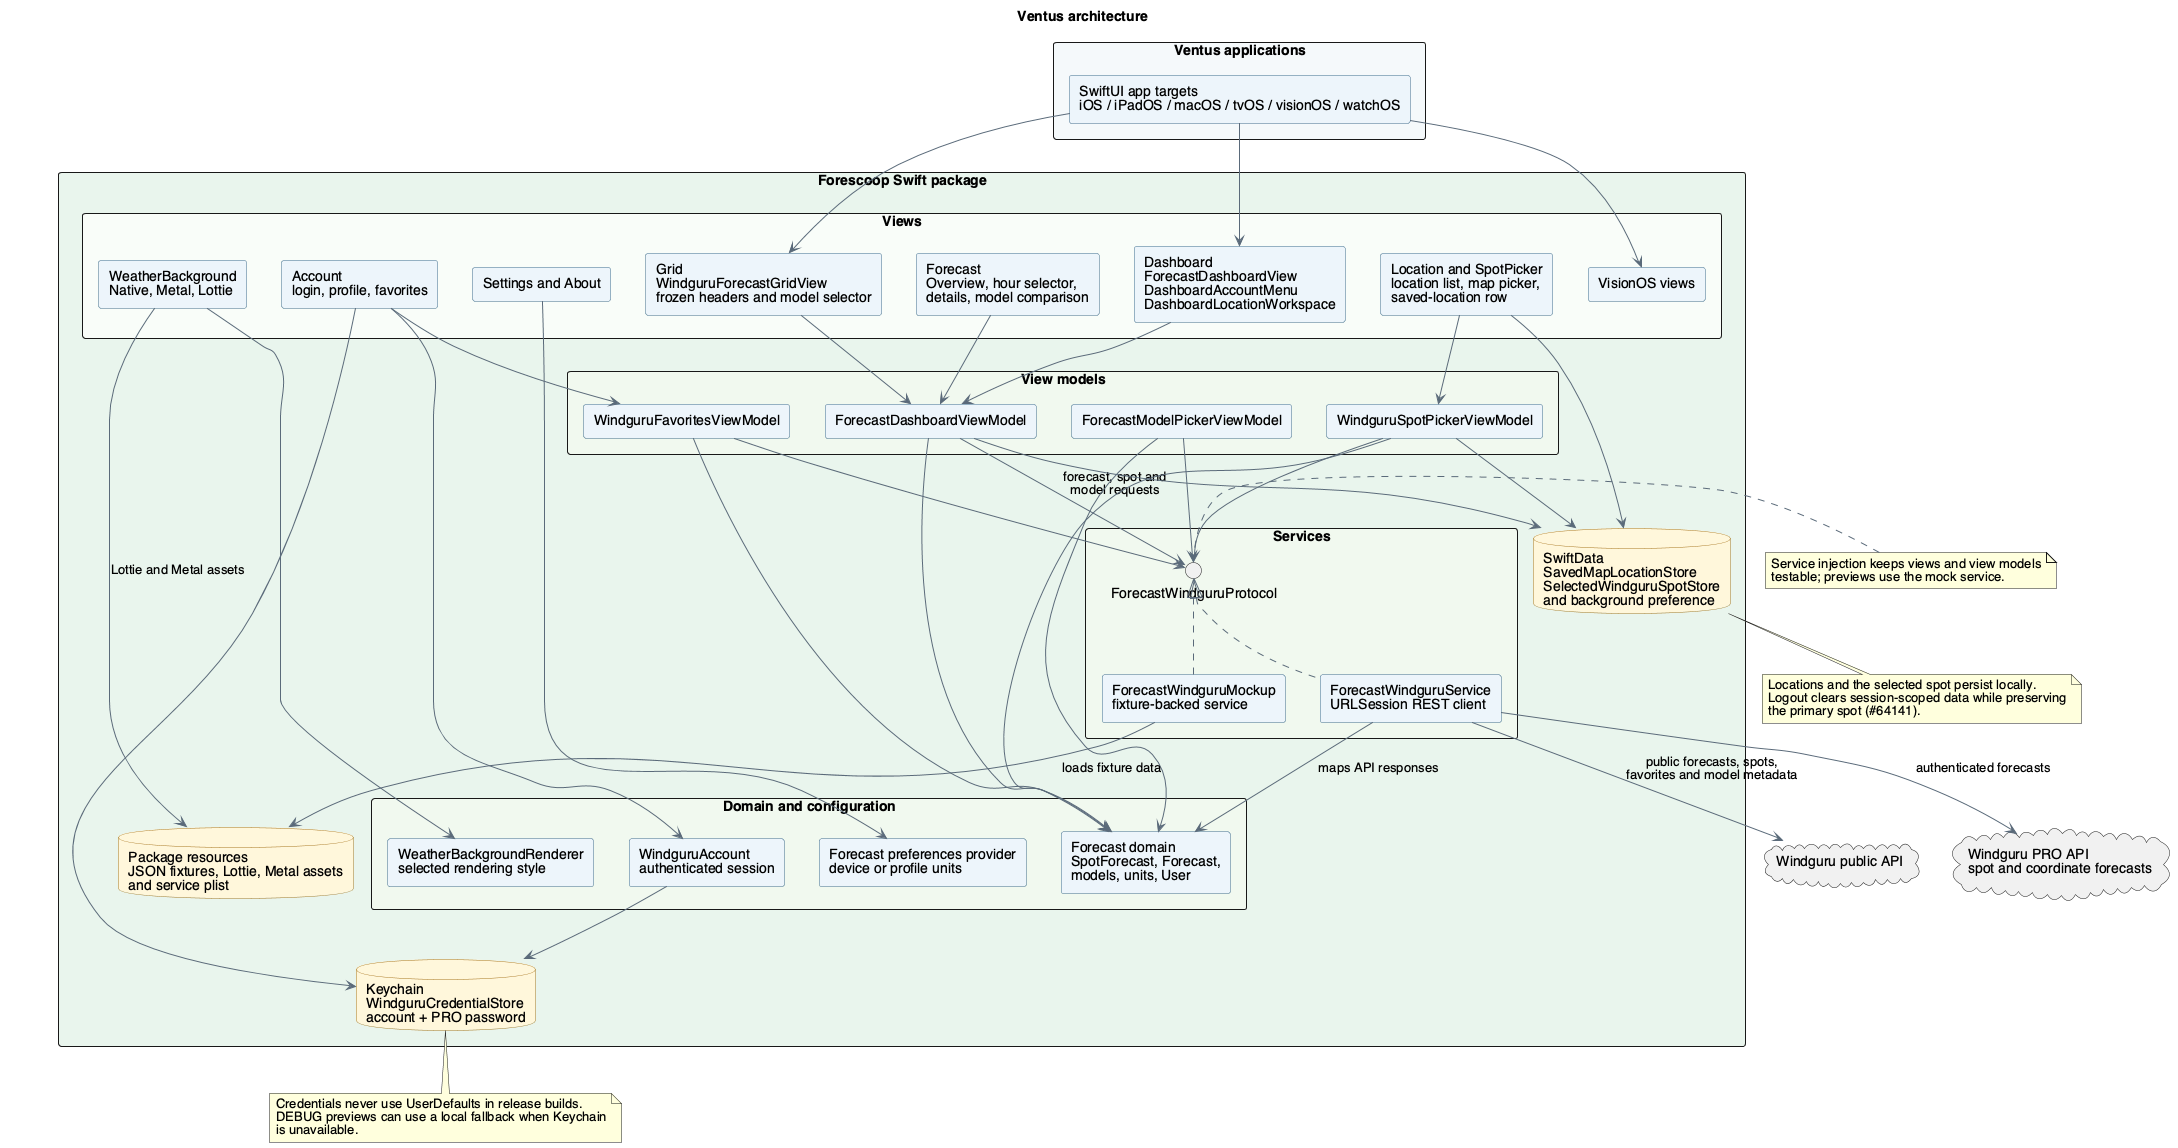
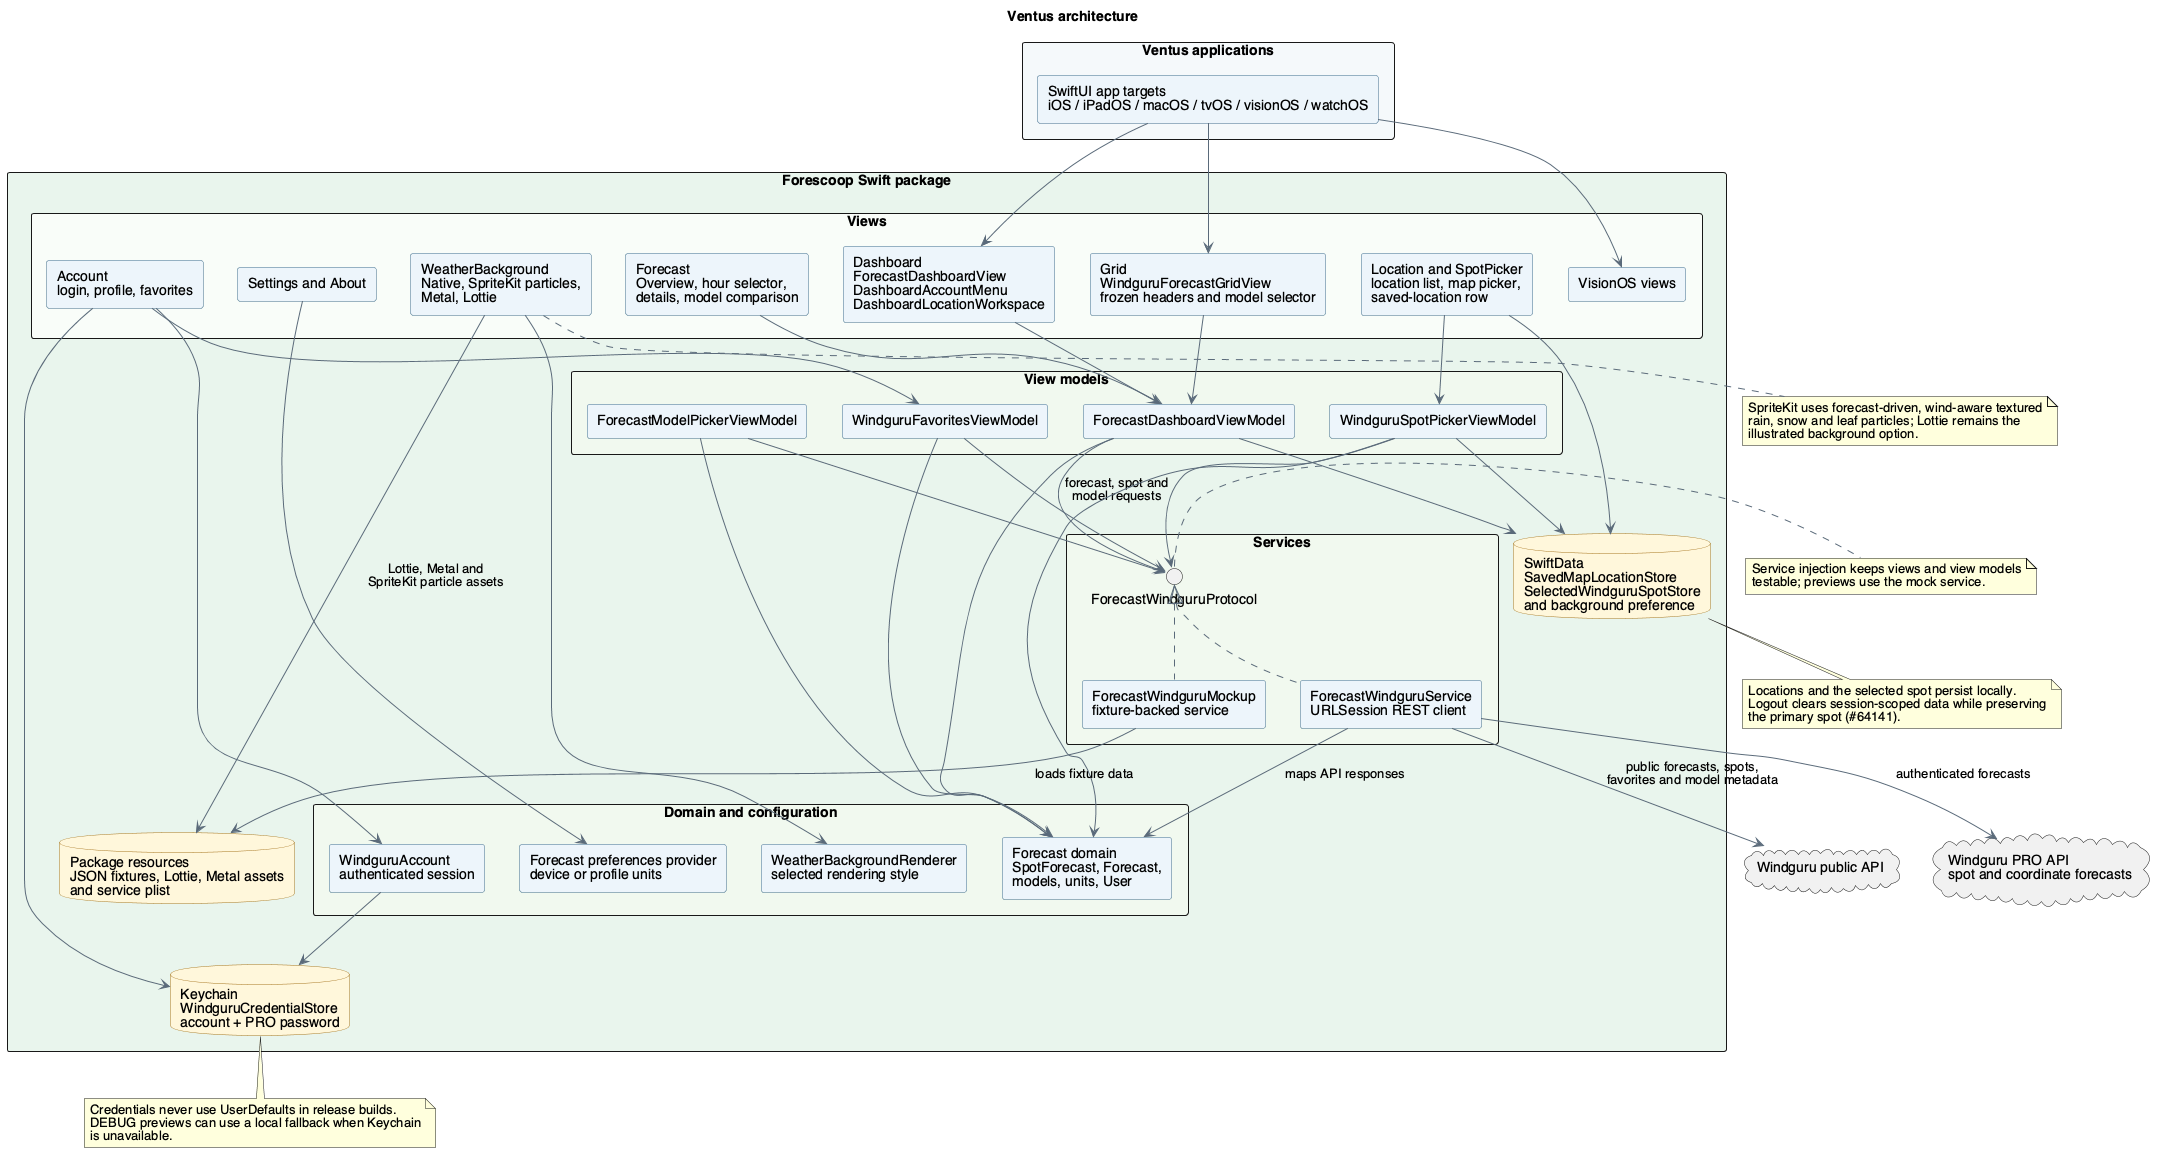
Adding SpriteKit weather bg

diff --git a/Sources/Forescoop/Classes/View/WeatherBackground/SpriteKitWeatherBackground.swift b/Sources/Forescoop/Classes/View/WeatherBackground/SpriteKitWeatherBackground.swift
@@ -1,0 +1,278 @@
+//
+//  SpriteKitWeatherBackground.swift
+//  Forescoop package
+//
+//  Created by Javier Fuchs on 08/01/26.
+//  Copyright © 2026 Mobile Patagonia. All rights reserved.
+//
+
+import SwiftUI
+
+#if canImport(SpriteKit) && !os(watchOS)
+import SpriteKit
+#if os(macOS)
+import AppKit
+#else
+import UIKit
+#endif
+#endif
+
+/// A forecast-reactive background made from SpriteKit particle sprites.
+///
+/// Unlike the illustrated Lottie treatments, rain, snow and leaves here react
+/// to the forecast precipitation, wind strength and downwind direction.
+public struct SpriteKitWeatherBackground: WeatherBackground {
+    private let condition: SpriteWeatherCondition
+
+    public init(forecast: SpotForecast, hour: String? = nil) {
+        let selectedHour = hour ?? forecast.currentForecastHour
+        let weather = forecast.forecast
+        let symbols = forecast.weatherSymbolNames(hour: selectedHour)
+        let precipitation = weather?.precipitation(hh: selectedHour)
+            ?? weather?.precipitation1(hh: selectedHour)
+            ?? 0
+        let windDirection = weather?.windDirection(hh: selectedHour) ?? 270
+        let downwindRadians = (windDirection + 180) * .pi / 180
+
+        condition = SpriteWeatherCondition(
+            isSnowy: symbols.contains { $0.contains("snow") },
+            precipitationMillimeters: precipitation,
+            windVector: CGPoint(
+                x: sin(downwindRadians),
+                y: -cos(downwindRadians)
+            ),
+            windSpeedKnots: max(
+                weather?.windSpeed(hh: selectedHour) ?? 0,
+                weather?.windGustsKnots(hh: selectedHour) ?? 0
+            )
+        )
+    }
+
+    public var body: some View {
+        #if canImport(SpriteKit) && !os(watchOS)
+        SpriteKitWeatherSurface(condition: condition)
+            .allowsHitTesting(false)
+            .accessibilityHidden(true)
+        #else
+        Color.clear
+            .accessibilityHidden(true)
+        #endif
+    }
+}
+
+private struct SpriteWeatherCondition: Equatable {
+    let isSnowy: Bool
+    let precipitationMillimeters: Double
+    let windVector: CGPoint
+    let windSpeedKnots: Double
+
+    var hasPrecipitation: Bool { precipitationMillimeters > 0 }
+    var hasWind: Bool { windSpeedKnots >= 12 }
+    var isHeavyRain: Bool { !isSnowy && precipitationMillimeters >= 8 }
+}
+
+#if canImport(SpriteKit) && !os(watchOS)
+private struct SpriteKitWeatherSurface: View {
+    let condition: SpriteWeatherCondition
+    @State private var scene: SpriteWeatherScene
+
+    init(condition: SpriteWeatherCondition) {
+        self.condition = condition
+        _scene = State(initialValue: SpriteWeatherScene(condition: condition))
+    }
+
+    var body: some View {
+        SpriteView(scene: scene, options: [.allowsTransparency])
+            .onChange(of: condition) { _, newCondition in
+                scene.update(condition: newCondition)
+            }
+    }
+}
+
+private final class SpriteWeatherScene: SKScene {
+    private var condition: SpriteWeatherCondition
+    private var didBuildParticles = false
+
+    init(condition: SpriteWeatherCondition) {
+        self.condition = condition
+        super.init(size: CGSize(width: 1, height: 1))
+        scaleMode = .resizeFill
+        backgroundColor = .clear
+    }
+
+    required init?(coder aDecoder: NSCoder) {
+        nil
+    }
+
+    override func didMove(to view: SKView) {
+        rebuildParticles()
+    }
+
+    func update(condition: SpriteWeatherCondition) {
+        guard self.condition != condition else { return }
+        self.condition = condition
+        guard didBuildParticles else { return }
+        rebuildParticles()
+    }
+
+    override func didChangeSize(_ oldSize: CGSize) {
+        guard didBuildParticles, size != oldSize else { return }
+        rebuildParticles()
+    }
+
+    private func rebuildParticles() {
+        removeAllChildren()
+        didBuildParticles = true
+
+        if condition.hasPrecipitation {
+            addChild(precipitationEmitter())
+        }
+        if condition.hasWind {
+            addChild(leafEmitter())
+        }
+        if condition.isHeavyRain {
+            addLightning()
+        }
+    }
+
+    private func precipitationEmitter() -> SKEmitterNode {
+        let emitter = SKEmitterNode()
+        let intensity = min(max(condition.precipitationMillimeters, 0.4), 16)
+        let speed = condition.isSnowy ? 42 + intensity * 4 : 230 + intensity * 14
+        let density = condition.isSnowy ? 10 + intensity * 3 : 16 + intensity * 5
+        let wind = spriteKitWindVector
+
+        emitter.particleTexture = SpriteWeatherTexture.precipitation(snow: condition.isSnowy)
+        emitter.particleBirthRate = CGFloat(density)
+        emitter.particleLifetime = condition.isSnowy ? 10 : 3.2
+        emitter.particleLifetimeRange = condition.isSnowy ? 2 : 0.8
+        emitter.particlePosition = CGPoint(x: size.width / 2, y: size.height + 36)
+        emitter.particlePositionRange = CGVector(dx: size.width + 100, dy: 8)
+        emitter.particleSpeed = CGFloat(speed)
+        emitter.particleSpeedRange = CGFloat(speed * 0.25)
+        emitter.emissionAngle = atan2(-1 + wind.dy * 0.22, wind.dx * (condition.isSnowy ? 0.70 : 0.38))
+        emitter.emissionAngleRange = condition.isSnowy ? .pi / 4 : .pi / 12
+        // The original long streak texture looks like falling glass in
+        // SpriteKit. Rain deliberately uses a rounded SF Symbol drop instead.
+        emitter.particleScale = condition.isSnowy ? 0.18 : 0.78
+        emitter.particleScaleRange = condition.isSnowy ? 0.14 : 0.28
+        emitter.particleScaleSpeed = condition.isSnowy ? -0.004 : 0
+        // Snowflakes tumble naturally. Keep raindrops upright: their falling
+        // trajectory already carries the wind direction, and rotation makes
+        // a rounded drop appear to fall sideways.
+        emitter.particleRotationRange = condition.isSnowy ? .pi : 0
+        emitter.particleRotationSpeed = condition.isSnowy ? 0.7 : 0
+        emitter.particleAlpha = condition.isSnowy ? 0.72 : 0.72
+        emitter.particleAlphaRange = condition.isSnowy ? 0.22 : 0.18
+        emitter.particleAlphaSpeed = condition.isSnowy ? -0.05 : -0.16
+        emitter.particleColor = condition.isSnowy
+            ? .white
+            : SKColor(red: 0.12, green: 0.62, blue: 1, alpha: 1)
+        emitter.particleColorBlendFactor = 1
+        emitter.particleBlendMode = .alpha
+        return emitter
+    }
+
+    private func leafEmitter() -> SKEmitterNode {
+        let emitter = SKEmitterNode()
+        let speed = min(max(condition.windSpeedKnots, 12), 50)
+        let wind = spriteKitWindVector
+
+        emitter.particleTexture = SpriteWeatherTexture.leaf()
+        emitter.particleBirthRate = CGFloat(2 + speed / 7)
+        emitter.particleLifetime = 8
+        emitter.particleLifetimeRange = 2
+        emitter.particlePosition = CGPoint(
+            x: wind.dx >= 0 ? -30 : size.width + 30,
+            y: size.height * 0.55
+        )
+        emitter.particlePositionRange = CGVector(dx: 10, dy: size.height * 1.2)
+        emitter.particleSpeed = CGFloat(40 + speed * 3)
+        emitter.particleSpeedRange = 35
+        emitter.emissionAngle = atan2(wind.dy, wind.dx)
+        emitter.emissionAngleRange = .pi / 6
+        emitter.particleScale = 0.13
+        emitter.particleScaleRange = 0.11
+        emitter.particleRotationRange = .pi
+        emitter.particleRotationSpeed = 1.8
+        emitter.particleAlpha = 0.48
+        emitter.particleAlphaRange = 0.2
+        emitter.particleAlphaSpeed = -0.06
+        emitter.particleColor = .white
+        emitter.particleColorBlendFactor = 1
+        return emitter
+    }
+
+    private var spriteKitWindVector: CGVector {
+        // SwiftUI coordinates point downward; SpriteKit coordinates point up.
+        CGVector(
+            dx: condition.windVector.x,
+            dy: -condition.windVector.y
+        )
+    }
+
+    private func addLightning() {
+        let flash = SKSpriteNode(color: .white, size: size)
+        flash.position = CGPoint(x: size.width / 2, y: size.height / 2)
+        flash.alpha = 0
+        flash.blendMode = .add
+        addChild(flash)
+
+        let sequence = SKAction.sequence([
+            .wait(forDuration: 3.5),
+            .fadeAlpha(to: 0.20, duration: 0.04),
+            .fadeOut(withDuration: 0.10),
+            .wait(forDuration: 0.12),
+            .fadeAlpha(to: 0.12, duration: 0.03),
+            .fadeOut(withDuration: 0.12),
+            .wait(forDuration: 4.5)
+        ])
+        flash.run(.repeatForever(sequence))
+    }
+}
+
+private enum SpriteWeatherTexture {
+    static func precipitation(snow: Bool) -> SKTexture? {
+        snow ? texture(named: "snowflake-sprite") : systemSymbol("drop.fill")
+    }
+
+    static func leaf() -> SKTexture? {
+        systemSymbol("leaf.fill")
+    }
+
+    private static func texture(named name: String) -> SKTexture? {
+        guard let url = Bundle.module.url(forResource: name, withExtension: "png") else {
+            return nil
+        }
+#if os(macOS)
+        return NSImage(contentsOf: url).map(SKTexture.init(image:))
+#else
+        return UIImage(contentsOfFile: url.path).map(SKTexture.init(image:))
+#endif
+    }
+
+    private static func systemSymbol(_ name: String) -> SKTexture? {
+#if os(macOS)
+        return NSImage(systemSymbolName: name, accessibilityDescription: nil).map(SKTexture.init(image:))
+#else
+        return UIImage(systemName: name).map(SKTexture.init(image:))
+#endif
+    }
+}
+#endif
+
+#Preview("SpriteKit rain") {
+    SpriteKitWeatherBackground(
+        forecast: AnimatedWeatherPreviewData.forecast(precipitation: 5, temperature: 11, cloudCover: 95, windSpeed: 16, gusts: 24),
+        hour: "29"
+    )
+    .frame(height: 400)
+}
+
+#Preview("SpriteKit snow and wind") {
+    SpriteKitWeatherBackground(
+        forecast: AnimatedWeatherPreviewData.forecast(precipitation: 4, temperature: -3, cloudCover: 95, windSpeed: 22, gusts: 32),
+        hour: "29"
+    )
+    .frame(height: 400)
+}

diff --git a/Sources/Forescoop/Classes/View/WeatherBackground/WeatherBackgroundRenderer.swift b/Sources/Forescoop/Classes/View/WeatherBackground/WeatherBackgroundRenderer.swift
@@ -17,6 +17,7 @@ public protocol WeatherBackground: View {
 public enum WeatherBackgroundStyle: String, CaseIterable, Identifiable, Sendable {
     case animated
     case metal
+    case spriteKit
     case lottieAdriana
     case lottieAsad
 
@@ -26,6 +27,7 @@ public enum WeatherBackgroundStyle: String, CaseIterable, Identifiable, Sendable
         switch self {
         case .animated: "Native"
         case .metal: "Metal"
+        case .spriteKit: "SpriteKit"
         case .lottieAdriana: "Lottie – Adriana"
         case .lottieAsad: "Lottie – Asad"
         }
@@ -35,6 +37,7 @@ public enum WeatherBackgroundStyle: String, CaseIterable, Identifiable, Sendable
         switch self {
         case .animated: "sparkles"
         case .metal: "cpu"
+        case .spriteKit: "leaf.arrow.circlepath"
         case .lottieAdriana, .lottieAsad: "play.rectangle"
         }
     }
@@ -65,6 +68,8 @@ public struct WeatherBackgroundRenderer: View {
             AnimatedWeatherBackground(forecast: forecast, hour: hour)
         case .metal:
             MetalWeatherBackground(forecast: forecast, hour: hour)
+        case .spriteKit:
+            SpriteKitWeatherBackground(forecast: forecast, hour: hour)
         case .lottieAdriana:
             LottieWeatherBackground(forecast: forecast, hour: hour, theme: .adrianaMandjarova)
         case .lottieAsad:

diff --git a/Sources/Forescoop/Classes/View/WeatherBackground/AnimatedWeatherBackground.swift b/Sources/Forescoop/Classes/View/WeatherBackground/AnimatedWeatherBackground.swift
@@ -316,7 +316,7 @@ public struct AnimatedWeatherBackground: WeatherBackground {
     }
 }
 
-private enum AnimatedWeatherPreviewData {
+enum AnimatedWeatherPreviewData {
     static func forecast(
         precipitation: Double,
         temperature: Double,
